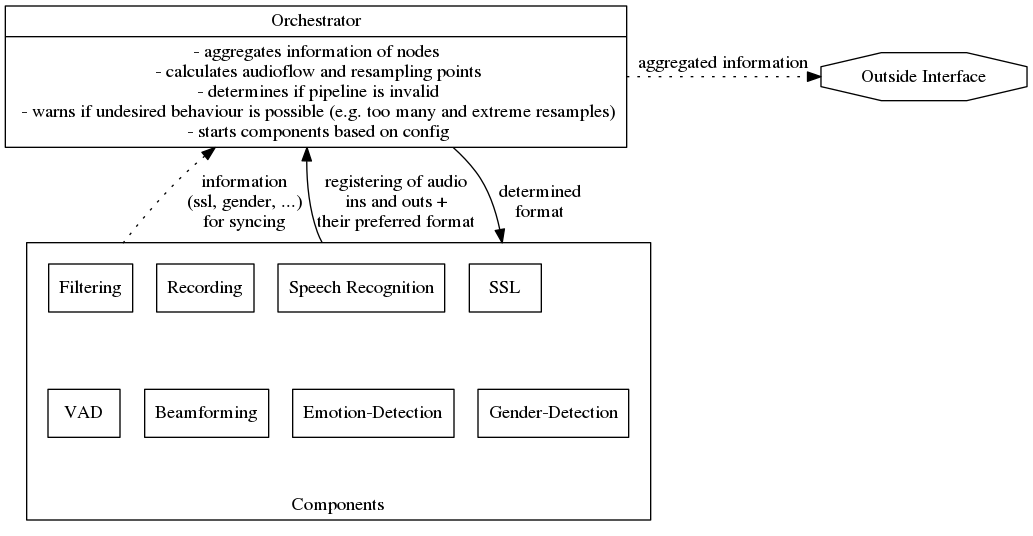
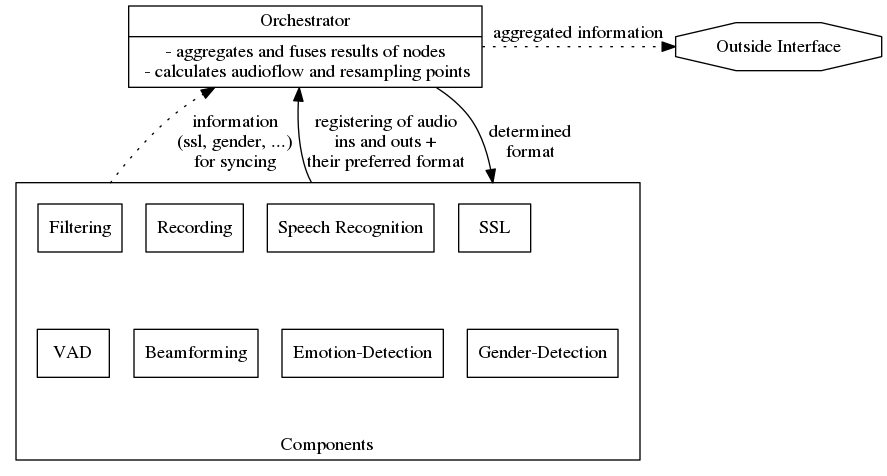
some feedback for 3.3; main chapter mostly done

Changed region(s): [[0.0, 0.0, 1.0, 0.9706], [0.8219, 0.0294, 0.9436, 0.0588], [0.5784, 0.5, 0.6088, 0.5294]]

diff --git a/thesis_template/sections/related_work/robocup.tex b/thesis_template/sections/related_work/robocup.tex
@@ -1,32 +1,32 @@
 %!TEX root = ../../thesis.tex
 
 \section{RoboCup@Home}
-The RoboCup was founded in 1996 as a annual soccer competition for robots with the goal to beat the human world champions in 2050.
+The RoboCup was founded in 1996 as an annual soccer competition for robots with the goal to beat the human world champions by 2050 (todo cite https://www.robocup.org/objective).
 Over the years, RoboCup split into several leagues and expanded into other disciplines as well, such as the Rescue Robot league or the RoboCup@Work league.
 
-RoboCup@Home is a league of the RoboCup dedicated to service robots in a domestic environment. % genauere beschreibung von @home, how is this relevant?
+RoboCup@Home (todo cite http://www.robocupathome.org/) is a league of the RoboCup dedicated to service robots in a domestic environment. % genauere beschreibung von @home, how is this relevant?
 Therefore, human robot interaction is one of, if not the primary focus of this league.
 Naturally, speech recognition systems are used as the default way to interact and communicate with the robots.
 This results in the demand for robust speech recognition software.%, but also introduces problems rather unnoticed by theoretical research, such as...
 
-One of the tasks tested in RoboCup@Home of 2017 and 2018, the ''Speech and Person Recognition'' task \cite{rulebook_2018}, is of particular interest for this work, as it mainly tests the basic speech recognition ability of the robots. 
-As it was used in several RoboCup events over two years, and on dozens of robots, it is an almost ideal test to evaluate any speech recognition system on a robot.
+One of the tasks tested in RoboCup@Home in 2017 and 2018, the ''Speech and Person Recognition'' task \cite{rulebook_2018}, is of particular interest for this work, as it mainly tests the basic speech recognition ability of the robots. 
+As it was used in several RoboCup events over two years, and on dozens of robots, it is an convenient test to evaluate any speech recognition system on a robot.
 Consequently, we will use it to evaluate the performance of the proposed pipeline later in chapter \ref{eval:task_start}, where the test will also be illustrated in greater detail. 
 
 To gather information on the state of the art with regards to synchronization of sensor results and speech results in particular, we will provide an overview of established RoboCup@Home teams, which published information on that matter.
-However, this information is relatively sparse in team description papers and on the teams websites, so some of the information had to be pieced together.
+However, this information is relatively sparse in team description papers and on the teams websites, so some additional information was gathered by contacting the teams directly.
 
 \subsection{SPQReL}
-The SPQReL team from Sapienza University of Rome and the University of Lincoln use several fusion approaches.
+The SPQReL team from Sapienza University of Rome and the University of Lincoln use several fusion approaches. (todo cite)
 Visual person perceptions were matched with \gls{ssl} results, based on their respective angular difference, and could thus be tagged as speaking.
-Spoken sentences could then be mapped to speaking persons.
+Spoken sentences could then be mapped to speaking persons (according to email).
 They employ several speech recognizers, i.e. Google Speech API and a Nuance speech recognizer, and fuse their results with a custom speech understanding system called \textit{LU4R} (todo cite), which is able to prioritize results based on expected domain specific terms. 
 As such, this approach fits into the category of decision level techniques, as discussed in section \ref{related:fusion}.
 
 \subsection{RoboFEI}
-The RoboFEI team from Centro Universitário FEI in Sao Paolo (TODO cite) uses a specific microphone configuration to handle problems caused by highly mobile sound source localization microphones.
-Their robots head is attached to a rotatable pipe, which enables it to spin around its axis, while the robots microphone array is attached to a static shaft running through that pipe which keeps it still.
-As such, the position and movement of the robots head are not relevant for sound source localization results and beamforming, and can as such be ignored.
+The RoboFEI team from Centro Universitário FEI in Sao Paolo (TODO cite) uses a specific microphone configuration to handle problems caused by moving sound source localization microphones.
+Their robot's head is attached to a rotating pipe, which enables it to spin around its axis, while the robot's microphone array is attached to a static shaft running through that pipe which keeps it still.
+As such, the position and movement of the robot's head are not relevant for sound source localization results and beamforming, and can as such be ignored.
 Nevertheless, the robots own position and movement needs to be taken into account when performing \gls{ssl}, as is the case for all mobile robots.
 
 \subsection{Tech United}
@@ -69,7 +69,7 @@ This offset is employed to mitigate the time the \gls{psa} needs to recognize an
 
 The \gls{psa} is an \gls{asr} component which is based on \gls{ps}. \label{related_work:psa}
 It captures sound directly from a microphone via \gls{alsa}, which is then segmented, to ensure only audio containing actual speech is evaluated.
-It segments audio based on a loudness threshold, which, if overcome long enough, will start a segmentation.
+It segments audio based on a loudness threshold, which, if crossed long enough, will start a segmentation.
 This segmentation is ended either if a certain time limit is exceeded or if the loudness of received audio chunks drops under a second, typically slightly lower threshold.
 Audio which is thus decided to contain speech will then be fed into \gls{ps}.
 After a segmentation is ended, \gls{ps} will produce a result, which is then published via a \gls{ros} message.

diff --git a/thesis_template/sections/main_chapter/library.tex b/thesis_template/sections/main_chapter/library.tex
@@ -76,10 +76,80 @@ Developing the library in Python in the first place was considered, but ultimate
 
 Another important task of the library is to provide standardized \gls{ros} messages of common results generated from raw audio.
 This is realized by a number of \gls{ros} messages, dedicated to speech-, emotion-, gender-, voice-, \gls{ssl}-, and \gls{vad}- information.
-They generally consist of a start \& end timestamp, a probability and a 
+These messages can be inspected in figure \ref{table:main:lib:messages}.
+They generally consist of a start \& end timestamp, a probability and a string containing their actual result.
+Special cases are the \textit{VADInfo} message, which lacks such a string, as it only needs to capture a timeframe, 
+the \textit{SpeechInfo} message, which consists of a list of result strings and their respective probabilities, along with an duration, 
+and the \textit{SSLInfo} message, which in addition to a duration fields a list of \gls{ssl} outcomes, determined by an vertical as well as horizontal angle and a distinct source ID.
 In any case, these must be published by the components to similarly standardized \gls{ros}-topics, consisting of the name of the component and the type of the message.
 
-%Components within the framework may or may not generate results based on audio they received.
+\begin{figure}[]
+	\centering
+	\begin{tabular}{| l | l |}
+		\hline
+		\multicolumn{2}{|c|}{\textbf{Duration}} \\\hline
+		start & finish \\\hline
+	\end{tabular}\\\vspace{0.3cm}
+	
+	\begin{tabular}{| l | l | l |}
+		\hline
+		
+		\multicolumn{3}{|c|}{\textbf{GenderInfo}} \\ \hline
+		gender* & probability & Duration \\\hline
+	\end{tabular}\\\vspace{0.3cm}
+	
+	\begin{tabular}{| l | l | l |}
+		\hline
+		
+		\multicolumn{3}{|c|}{\textbf{EmotionInfo}} \\ \hline
+		emotion* & probability & Duration  \\\hline
+	\end{tabular}\\\vspace{0.3cm}
+	
+	\begin{tabular}{| l | l | l |}
+		\hline
+		
+		\multicolumn{3}{|c|}{\textbf{VoiceIdInfo}} \\ \hline
+		voiceId* & probability & Duration  \\\hline
+	\end{tabular}\\\vspace{0.3cm}
+	
+	\begin{tabular}{| l | l |}
+		\hline
+		
+		\multicolumn{2}{|c|}{\textbf{VADInfo}} \\ \hline
+		probability & Duration  \\\hline
+	\end{tabular}\\\vspace{0.3cm}
+	
+	\begin{tabular}{| l | l | l |}
+		\hline
+		
+		\multicolumn{3}{|c|}{\textbf{SpeechInfo}} \\ \hline
+		\multicolumn{2}{|c|}{hypotheses[]} & Duration  \\\cline{1-2}
+		recognizedSpeech* & probability & \\\hline
+	\end{tabular}\\\vspace{0.3cm}
+	
+	\begin{tabular}{| l | l | l | l|}
+		\hline
+		
+		\multicolumn{4}{|c|}{\textbf{SSLInfo}} \\ \hline
+		\multicolumn{3}{|c|}{directions[]} & Duration  \\\cline{1-3}
+		sourceId* & angleVertical & angleHorizontal & \\\hline
+	\end{tabular}\\\vspace{0.3cm}
+	
+	\begin{tabular}{| l | l | l |}
+		\hline
+		
+		\multicolumn{3}{|c|}{\textbf{EsiafRosMsg}} \\ \hline
+		GenderInfo[]	& EmotionInfo[]	& VoiceIdInfo[]	\\\hline
+		VADInfo[]	& SpeechInfo[]	& SSLInfo[] \\\hline
+	\end{tabular}
+	\caption{A list of all available result messages and their composition.
+		All entries indicated with a star are of type string and generally used for result transmission.
+		All other entries are either of a type shown here (e.g. Duration), or are floats.
+		Square brackets indicate this entry to be a list of this type with unspecified length.
+		The EsiafRosMsg is a special type reserved for usage by the Orchestrator, as it represents the message of synchronized results.
+		}
+	\label{table:main:lib:messages}
+\end{figure}
 
 %--------------------------------------------------------------------
 

diff --git a/thesis_template/main_chapter.tex b/thesis_template/main_chapter.tex
@@ -3,7 +3,7 @@
 \chapter{Resulting System}
 In this chapter we will describe our solution to the problems presented in chapter \ref{motiv:start}.
 We will first give a broad overview how and where certain tasks are handled, before going more into detail in sections dedicated to the two major parts of this solution, namely the Orchestrator and library.
-After we discussed the problems tackled by the Orchestrator and the library in more detail and thus gained deeper insight into the workings of both, we will again revert to a higher level and describe their interaction with each other.
+%After we discussed the problems tackled by the Orchestrator and the library in more detail and thus gained deeper insight into the workings of both, we will again revert to a higher level and describe their interaction with each other.
 Lastly we will present a number of components developed for our solution as a proof of concept and to introduce them, as most of them are later used in the evaluation of this thesis (see chapter \ref{eval}).
 
 The main goal of this theses is to provide synchronized results of audio analysis components, such as \gls{asr} and \gls{ssl} results.
@@ -54,7 +54,7 @@ We will now continue to discuss the Orchestrator and the proposed pipelines libr
 \input{sections/main_chapter/library}
 \newpage
 \input{sections/main_chapter/orchestrator}
-\newpage
-\input{sections/main_chapter/combination.tex}
+%\newpage
+%\input{sections/main_chapter/combination.tex}
 \newpage
 \input{sections/main_chapter/incorporated_work}

diff --git a/thesis_template/sections/main_chapter/orchestrator.tex b/thesis_template/sections/main_chapter/orchestrator.tex
@@ -118,15 +118,15 @@ The Orchestrator will not expect any results of these components, but still take
 	\centering
 	\begin{tabular}{| l | r |}
 		\hline
-		\gls{vad} 				& 1723	 	\\ \hline
-		SpeechRec		& 1149		\\ \hline
-		\gls{ssl}		& 574		\\ \hline
-		Gender			& 575		\\ \hline
-		Emotion			& 1148		\\ \hline
-		VoiceId		& 24 		\\ \hline
-		Other 				& None	 	\\ \hline
+		\gls{vad} 		& VADInfo	 	\\ \hline
+		SpeechRec		& SpeechInfo		\\ \hline
+		\gls{ssl}		& SSLInfo		\\ \hline
+		Gender			& GenderInfo		\\ \hline
+		Emotion			& EmotionInfo		\\ \hline
+		VoiceId			& VoiceIdInfo		\\ \hline
+		Other 			& None	 	\\ \hline
 	\end{tabular}
-	\caption{Possible designations of components along with result messages expected from them.}
+	\caption{Possible designations of components along with result messages (see figure \ref{table:main:lib:messages}) expected from them.}
 	\label{table:main:designations}
 \end{figure}
 

diff --git a/thesis_template/sections/main_chapter/combination.tex b/thesis_template/sections/main_chapter/combination.tex
@@ -7,8 +7,15 @@
 
 Now that we gained deeper insight to both Orchestrator and library, especially with respect to how they solve their respective tasks, we will focus on their interaction and thus give a better impression of the proposed frameworks ''bigger picture''.
 
-
 % -----------------------------
+
+
+\begin{figure}[]
+	\centering
+	\includegraphics[width=\textwidth]{bilder/graphs/architecture.png}
+	\caption{}
+	\label{pic:main:combi:arcitecture}
+\end{figure}
 
 
 \begin{itemize}
